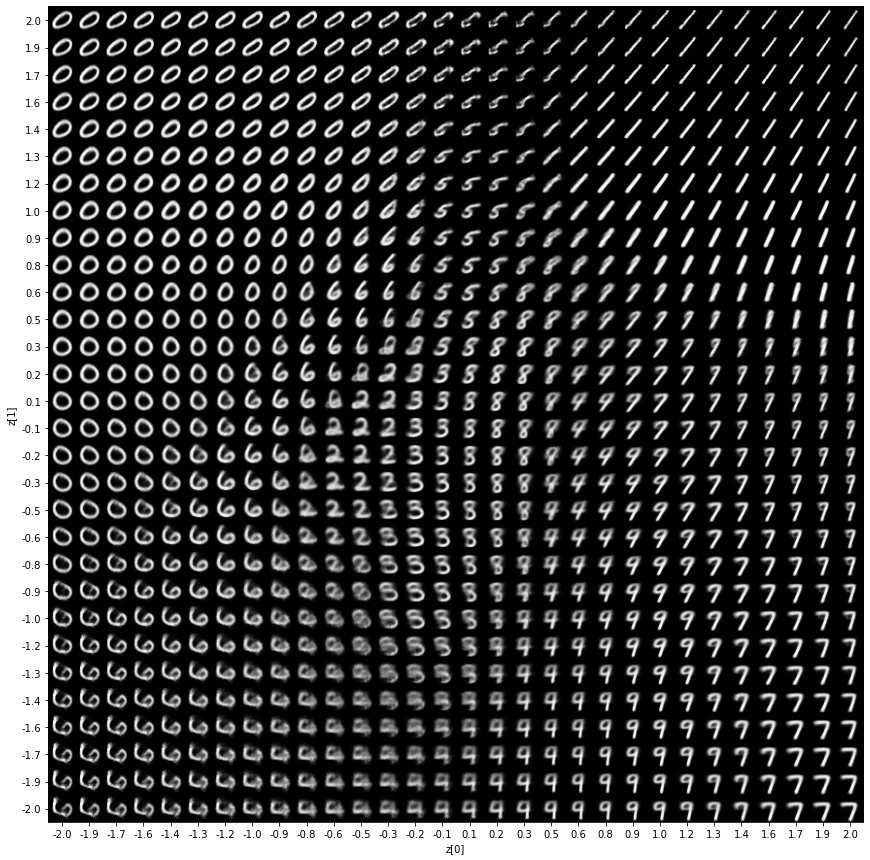
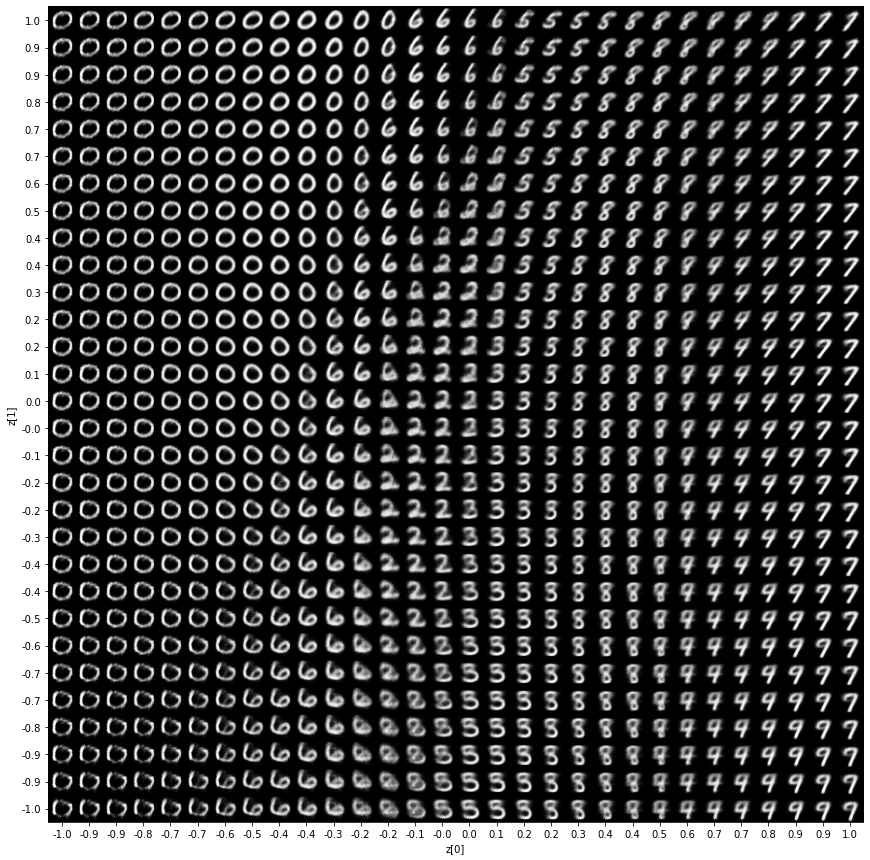
Update vae example

Changed region(s): [[0.031, 0.0, 0.9931, 0.9674]]

diff --git a/examples/generative/vae.py b/examples/generative/vae.py
@@ -71,27 +71,41 @@ class VAE(keras.Model):
         super(VAE, self).__init__(**kwargs)
         self.encoder = encoder
         self.decoder = decoder
+        self.total_loss_tracker = keras.metrics.Mean(name="total_loss")
+        self.reconstruction_loss_tracker = keras.metrics.Mean(
+            name="reconstruction_loss"
+        )
+        self.kl_loss_tracker = keras.metrics.Mean(name="kl_loss")
+
+    @property
+    def metrics(self):
+        return [
+            self.total_loss_tracker,
+            self.reconstruction_loss_tracker,
+            self.kl_loss_tracker,
+        ]
 
     def train_step(self, data):
-        if isinstance(data, tuple):
-            data = data[0]
         with tf.GradientTape() as tape:
             z_mean, z_log_var, z = self.encoder(data)
             reconstruction = self.decoder(z)
             reconstruction_loss = tf.reduce_mean(
-                keras.losses.binary_crossentropy(data, reconstruction)
+                tf.reduce_sum(
+                    keras.losses.binary_crossentropy(data, reconstruction), axis=(1, 2)
+                )
             )
-            reconstruction_loss *= 28 * 28
-            kl_loss = 1 + z_log_var - tf.square(z_mean) - tf.exp(z_log_var)
-            kl_loss = tf.reduce_mean(kl_loss)
-            kl_loss *= -0.5
+            kl_loss = -0.5 * (1 + z_log_var - tf.square(z_mean) - tf.exp(z_log_var))
+            kl_loss = tf.reduce_mean(tf.reduce_sum(kl_loss, axis=1))
             total_loss = reconstruction_loss + kl_loss
         grads = tape.gradient(total_loss, self.trainable_weights)
         self.optimizer.apply_gradients(zip(grads, self.trainable_weights))
+        self.total_loss_tracker.update_state(total_loss)
+        self.reconstruction_loss_tracker.update_state(reconstruction_loss)
+        self.kl_loss_tracker.update_state(kl_loss)
         return {
-            "loss": total_loss,
-            "reconstruction_loss": reconstruction_loss,
-            "kl_loss": kl_loss,
+            "loss": self.total_loss_tracker.result(),
+            "reconstruction_loss": self.reconstruction_loss_tracker.result(),
+            "kl_loss": self.kl_loss_tracker.result(),
         }
 
 
@@ -114,12 +128,10 @@ vae.fit(mnist_digits, epochs=30, batch_size=128)
 import matplotlib.pyplot as plt
 
 
-def plot_latent(encoder, decoder):
+def plot_latent_space(vae, n=30, figsize=15):
     # display a n*n 2D manifold of digits
-    n = 30
     digit_size = 28
-    scale = 2.0
-    figsize = 15
+    scale = 1.0
     figure = np.zeros((digit_size * n, digit_size * n))
     # linearly spaced coordinates corresponding to the 2D plot
     # of digit classes in the latent space
@@ -129,7 +141,7 @@ def plot_latent(encoder, decoder):
     for i, yi in enumerate(grid_y):
         for j, xi in enumerate(grid_x):
             z_sample = np.array([[xi, yi]])
-            x_decoded = decoder.predict(z_sample)
+            x_decoded = vae.decoder.predict(z_sample)
             digit = x_decoded[0].reshape(digit_size, digit_size)
             figure[
                 i * digit_size : (i + 1) * digit_size,
@@ -150,16 +162,16 @@ def plot_latent(encoder, decoder):
     plt.show()
 
 
-plot_latent(encoder, decoder)
+plot_latent_space(vae)
 
 """
 ## Display how the latent space clusters different digit classes
 """
 
 
-def plot_label_clusters(encoder, decoder, data, labels):
+def plot_label_clusters(vae, data, labels):
     # display a 2D plot of the digit classes in the latent space
-    z_mean, _, _ = encoder.predict(data)
+    z_mean, _, _ = vae.encoder.predict(data)
     plt.figure(figsize=(12, 10))
     plt.scatter(z_mean[:, 0], z_mean[:, 1], c=labels)
     plt.colorbar()
@@ -171,4 +183,4 @@ def plot_label_clusters(encoder, decoder, data, labels):
 (x_train, y_train), _ = keras.datasets.mnist.load_data()
 x_train = np.expand_dims(x_train, -1).astype("float32") / 255
 
-plot_label_clusters(encoder, decoder, x_train, y_train)
+plot_label_clusters(vae, x_train, y_train)

diff --git a/examples/generative/md/vae.md b/examples/generative/md/vae.md
@@ -14,18 +14,15 @@
 ## Setup
 
 
-
 ```python
 import numpy as np
 import tensorflow as tf
 from tensorflow import keras
 from tensorflow.keras import layers
-
 ```
 
 ---
 ## Create a sampling layer
-
 
 
 ```python
@@ -40,12 +37,10 @@ class Sampling(layers.Layer):
         epsilon = tf.keras.backend.random_normal(shape=(batch, dim))
         return z_mean + tf.exp(0.5 * z_log_var) * epsilon
 
-
 ```
 
 ---
 ## Build the encoder
-
 
 
 ```python
@@ -61,7 +56,6 @@ z_log_var = layers.Dense(latent_dim, name="z_log_var")(x)
 z = Sampling()([z_mean, z_log_var])
 encoder = keras.Model(encoder_inputs, [z_mean, z_log_var, z], name="encoder")
 encoder.summary()
-
 ```
 
 <div class="k-default-codeblock">
@@ -98,7 +92,6 @@ ________________________________________________________________________________
 ## Build the decoder
 
 
-
 ```python
 latent_inputs = keras.Input(shape=(latent_dim,))
 x = layers.Dense(7 * 7 * 64, activation="relu")(latent_inputs)
@@ -108,7 +101,6 @@ x = layers.Conv2DTranspose(32, 3, activation="relu", strides=2, padding="same")(
 decoder_outputs = layers.Conv2DTranspose(1, 3, activation="sigmoid", padding="same")(x)
 decoder = keras.Model(latent_inputs, decoder_outputs, name="decoder")
 decoder.summary()
-
 ```
 
 <div class="k-default-codeblock">
@@ -140,7 +132,6 @@ _________________________________________________________________
 ## Define the VAE as a `Model` with a custom `train_step`
 
 
-
 ```python
 
 class VAE(keras.Model):
@@ -148,35 +139,47 @@ class VAE(keras.Model):
         super(VAE, self).__init__(**kwargs)
         self.encoder = encoder
         self.decoder = decoder
+        self.total_loss_tracker = keras.metrics.Mean(name="total_loss")
+        self.reconstruction_loss_tracker = keras.metrics.Mean(
+            name="reconstruction_loss"
+        )
+        self.kl_loss_tracker = keras.metrics.Mean(name="kl_loss")
+
+    @property
+    def metrics(self):
+        return [
+            self.total_loss_tracker,
+            self.reconstruction_loss_tracker,
+            self.kl_loss_tracker,
+        ]
 
     def train_step(self, data):
-        if isinstance(data, tuple):
-            data = data[0]
         with tf.GradientTape() as tape:
-            z_mean, z_log_var, z = encoder(data)
-            reconstruction = decoder(z)
+            z_mean, z_log_var, z = self.encoder(data)
+            reconstruction = self.decoder(z)
             reconstruction_loss = tf.reduce_mean(
-                keras.losses.binary_crossentropy(data, reconstruction)
+                tf.reduce_sum(
+                    keras.losses.binary_crossentropy(data, reconstruction), axis=(1, 2)
+                )
             )
-            reconstruction_loss *= 28 * 28
-            kl_loss = 1 + z_log_var - tf.square(z_mean) - tf.exp(z_log_var)
-            kl_loss = tf.reduce_mean(kl_loss)
-            kl_loss *= -0.5
+            kl_loss = -0.5 * (1 + z_log_var - tf.square(z_mean) - tf.exp(z_log_var))
+            kl_loss = tf.reduce_mean(tf.reduce_sum(kl_loss, axis=1))
             total_loss = reconstruction_loss + kl_loss
         grads = tape.gradient(total_loss, self.trainable_weights)
         self.optimizer.apply_gradients(zip(grads, self.trainable_weights))
+        self.total_loss_tracker.update_state(total_loss)
+        self.reconstruction_loss_tracker.update_state(reconstruction_loss)
+        self.kl_loss_tracker.update_state(kl_loss)
         return {
-            "loss": total_loss,
-            "reconstruction_loss": reconstruction_loss,
-            "kl_loss": kl_loss,
+            "loss": self.total_loss_tracker.result(),
+            "reconstruction_loss": self.reconstruction_loss_tracker.result(),
+            "kl_loss": self.kl_loss_tracker.result(),
         }
-
 
 ```
 
 ---
 ## Train the VAE
-
 
 
 ```python
@@ -187,73 +190,24 @@ mnist_digits = np.expand_dims(mnist_digits, -1).astype("float32") / 255
 vae = VAE(encoder, decoder)
 vae.compile(optimizer=keras.optimizers.Adam())
 vae.fit(mnist_digits, epochs=30, batch_size=128)
-
 ```
 
 <div class="k-default-codeblock">
 ```
 Epoch 1/30
-547/547 [==============================] - 3s 5ms/step - loss: 202.1639 - reconstruction_loss: 199.6418 - kl_loss: 2.5221
+547/547 [==============================] - 35s 62ms/step - loss: 255.8020 - reconstruction_loss: 208.5391 - kl_loss: 2.9673
 Epoch 2/30
-547/547 [==============================] - 2s 4ms/step - loss: 161.9867 - reconstruction_loss: 158.9957 - kl_loss: 2.9910
+547/547 [==============================] - 38s 69ms/step - loss: 178.8786 - reconstruction_loss: 168.4294 - kl_loss: 5.4217
 Epoch 3/30
-547/547 [==============================] - 2s 4ms/step - loss: 157.0864 - reconstruction_loss: 153.9148 - kl_loss: 3.1716
+547/547 [==============================] - 39s 72ms/step - loss: 166.0320 - reconstruction_loss: 158.7979 - kl_loss: 5.8015
 Epoch 4/30
-547/547 [==============================] - 2s 5ms/step - loss: 154.6892 - reconstruction_loss: 151.4092 - kl_loss: 3.2800
+547/547 [==============================] - 38s 69ms/step - loss: 161.1647 - reconstruction_loss: 154.5963 - kl_loss: 5.9926
 Epoch 5/30
-547/547 [==============================] - 2s 4ms/step - loss: 153.1740 - reconstruction_loss: 149.8300 - kl_loss: 3.3441
-Epoch 6/30
-547/547 [==============================] - 2s 5ms/step - loss: 152.0346 - reconstruction_loss: 148.6590 - kl_loss: 3.3756
-Epoch 7/30
-547/547 [==============================] - 2s 5ms/step - loss: 151.2110 - reconstruction_loss: 147.7929 - kl_loss: 3.4181
-Epoch 8/30
-547/547 [==============================] - 2s 5ms/step - loss: 150.5230 - reconstruction_loss: 147.0933 - kl_loss: 3.4297
-Epoch 9/30
-547/547 [==============================] - 2s 5ms/step - loss: 149.9584 - reconstruction_loss: 146.5069 - kl_loss: 3.4515
-Epoch 10/30
-547/547 [==============================] - 2s 5ms/step - loss: 149.4152 - reconstruction_loss: 145.9451 - kl_loss: 3.4701
-Epoch 11/30
-547/547 [==============================] - 2s 5ms/step - loss: 149.0085 - reconstruction_loss: 145.5200 - kl_loss: 3.4885
-Epoch 12/30
-547/547 [==============================] - 2s 5ms/step - loss: 148.6831 - reconstruction_loss: 145.1854 - kl_loss: 3.4977
-Epoch 13/30
-547/547 [==============================] - 2s 4ms/step - loss: 148.3130 - reconstruction_loss: 144.7828 - kl_loss: 3.5302
+547/547 [==============================] - 40s 72ms/step - loss: 152.0941 - reconstruction_loss: 145.7407 - kl_loss: 6.4654
 Epoch 14/30
-547/547 [==============================] - 2s 5ms/step - loss: 148.0216 - reconstruction_loss: 144.4819 - kl_loss: 3.5397
-Epoch 15/30
-547/547 [==============================] - 2s 5ms/step - loss: 147.7056 - reconstruction_loss: 144.1588 - kl_loss: 3.5468
-Epoch 16/30
-547/547 [==============================] - 2s 5ms/step - loss: 147.4493 - reconstruction_loss: 143.8943 - kl_loss: 3.5549
-Epoch 17/30
-547/547 [==============================] - 2s 5ms/step - loss: 147.1656 - reconstruction_loss: 143.5847 - kl_loss: 3.5809
-Epoch 18/30
-547/547 [==============================] - 2s 5ms/step - loss: 147.0080 - reconstruction_loss: 143.4251 - kl_loss: 3.5829
-Epoch 19/30
-547/547 [==============================] - 2s 5ms/step - loss: 146.8182 - reconstruction_loss: 143.2218 - kl_loss: 3.5964
-Epoch 20/30
-547/547 [==============================] - 2s 5ms/step - loss: 146.5972 - reconstruction_loss: 142.9844 - kl_loss: 3.6128
-Epoch 21/30
-547/547 [==============================] - 2s 5ms/step - loss: 146.3822 - reconstruction_loss: 142.7513 - kl_loss: 3.6309
-Epoch 22/30
-547/547 [==============================] - 2s 5ms/step - loss: 146.1550 - reconstruction_loss: 142.5334 - kl_loss: 3.6215
-Epoch 23/30
-547/547 [==============================] - 2s 4ms/step - loss: 145.9934 - reconstruction_loss: 142.3690 - kl_loss: 3.6245
-Epoch 24/30
-547/547 [==============================] - 2s 5ms/step - loss: 145.8778 - reconstruction_loss: 142.2351 - kl_loss: 3.6426
-Epoch 25/30
-547/547 [==============================] - 2s 4ms/step - loss: 145.6936 - reconstruction_loss: 142.0350 - kl_loss: 3.6586
-Epoch 26/30
-547/547 [==============================] - 2s 4ms/step - loss: 145.5037 - reconstruction_loss: 141.8405 - kl_loss: 3.6633
+547/547 [==============================] - 38s 70ms/step - loss: 148.8709 - reconstruction_loss: 142.5713 - kl_loss: 6.6179
 Epoch 27/30
-547/547 [==============================] - 2s 4ms/step - loss: 145.3262 - reconstruction_loss: 141.6582 - kl_loss: 3.6680
-Epoch 28/30
-547/547 [==============================] - 2s 4ms/step - loss: 145.2551 - reconstruction_loss: 141.5739 - kl_loss: 3.6812
-Epoch 29/30
-547/547 [==============================] - 2s 5ms/step - loss: 145.1028 - reconstruction_loss: 141.4197 - kl_loss: 3.6831
-Epoch 30/30
-547/547 [==============================] - 2s 4ms/step - loss: 145.0274 - reconstruction_loss: 141.3409 - kl_loss: 3.6864
-
-<tensorflow.python.keras.callbacks.History at 0x7f74c83e79e8>
+191/547 [=========>....................] - ETA: 25s - loss: 149.0829 - reconstruction_loss: 142.2507 - kl_loss: 6.6429
 
 ```
 </div>
@@ -261,17 +215,14 @@ Epoch 30/30
 ## Display a grid of sampled digits
 
 
-
 ```python
 import matplotlib.pyplot as plt
 
 
-def plot_latent(encoder, decoder):
+def plot_latent_space(vae, n=30, figsize=15):
     # display a n*n 2D manifold of digits
-    n = 30
     digit_size = 28
-    scale = 2.0
-    figsize = 15
+    scale = 1.0
     figure = np.zeros((digit_size * n, digit_size * n))
     # linearly spaced coordinates corresponding to the 2D plot
     # of digit classes in the latent space
@@ -281,7 +232,7 @@ def plot_latent(encoder, decoder):
     for i, yi in enumerate(grid_y):
         for j, xi in enumerate(grid_x):
             z_sample = np.array([[xi, yi]])
-            x_decoded = decoder.predict(z_sample)
+            x_decoded = vae.decoder.predict(z_sample)
             digit = x_decoded[0].reshape(digit_size, digit_size)
             figure[
                 i * digit_size : (i + 1) * digit_size,
@@ -290,7 +241,7 @@ def plot_latent(encoder, decoder):
 
     plt.figure(figsize=(figsize, figsize))
     start_range = digit_size // 2
-    end_range = n * digit_size + start_range + 1
+    end_range = n * digit_size + start_range
     pixel_range = np.arange(start_range, end_range, digit_size)
     sample_range_x = np.round(grid_x, 1)
     sample_range_y = np.round(grid_y, 1)
@@ -302,8 +253,7 @@ def plot_latent(encoder, decoder):
     plt.show()
 
 
-plot_latent(encoder, decoder)
-
+plot_latent_space(vae)
 ```
 
 
@@ -314,12 +264,11 @@ plot_latent(encoder, decoder)
 ## Display how the latent space clusters different digit classes
 
 
-
 ```python
 
-def plot_label_clusters(encoder, decoder, data, labels):
+def plot_label_clusters(vae, data, labels):
     # display a 2D plot of the digit classes in the latent space
-    z_mean, _, _ = encoder.predict(data)
+    z_mean, _, _ = vae.encoder.predict(data)
     plt.figure(figsize=(12, 10))
     plt.scatter(z_mean[:, 0], z_mean[:, 1], c=labels)
     plt.colorbar()
@@ -331,8 +280,7 @@ def plot_label_clusters(encoder, decoder, data, labels):
 (x_train, y_train), _ = keras.datasets.mnist.load_data()
 x_train = np.expand_dims(x_train, -1).astype("float32") / 255
 
-plot_label_clusters(encoder, decoder, x_train, y_train)
-
+plot_label_clusters(vae, x_train, y_train)
 ```
 
 
